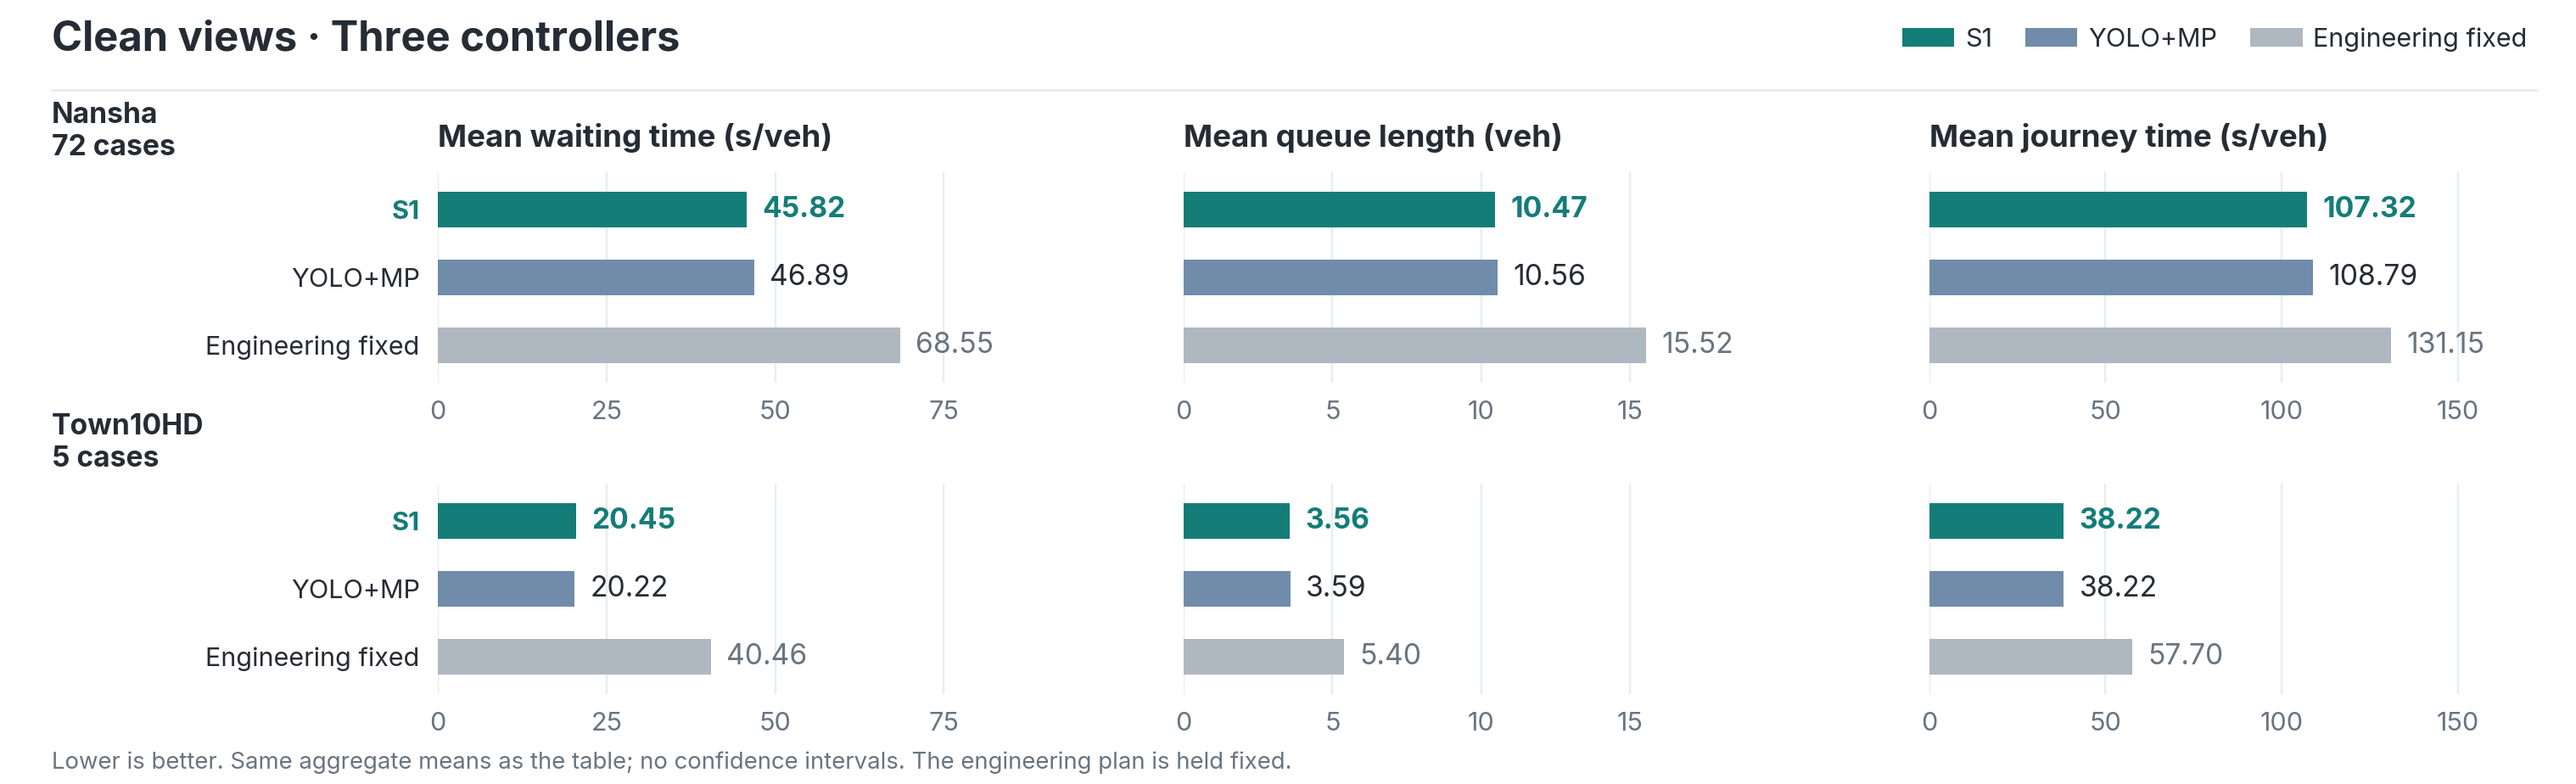
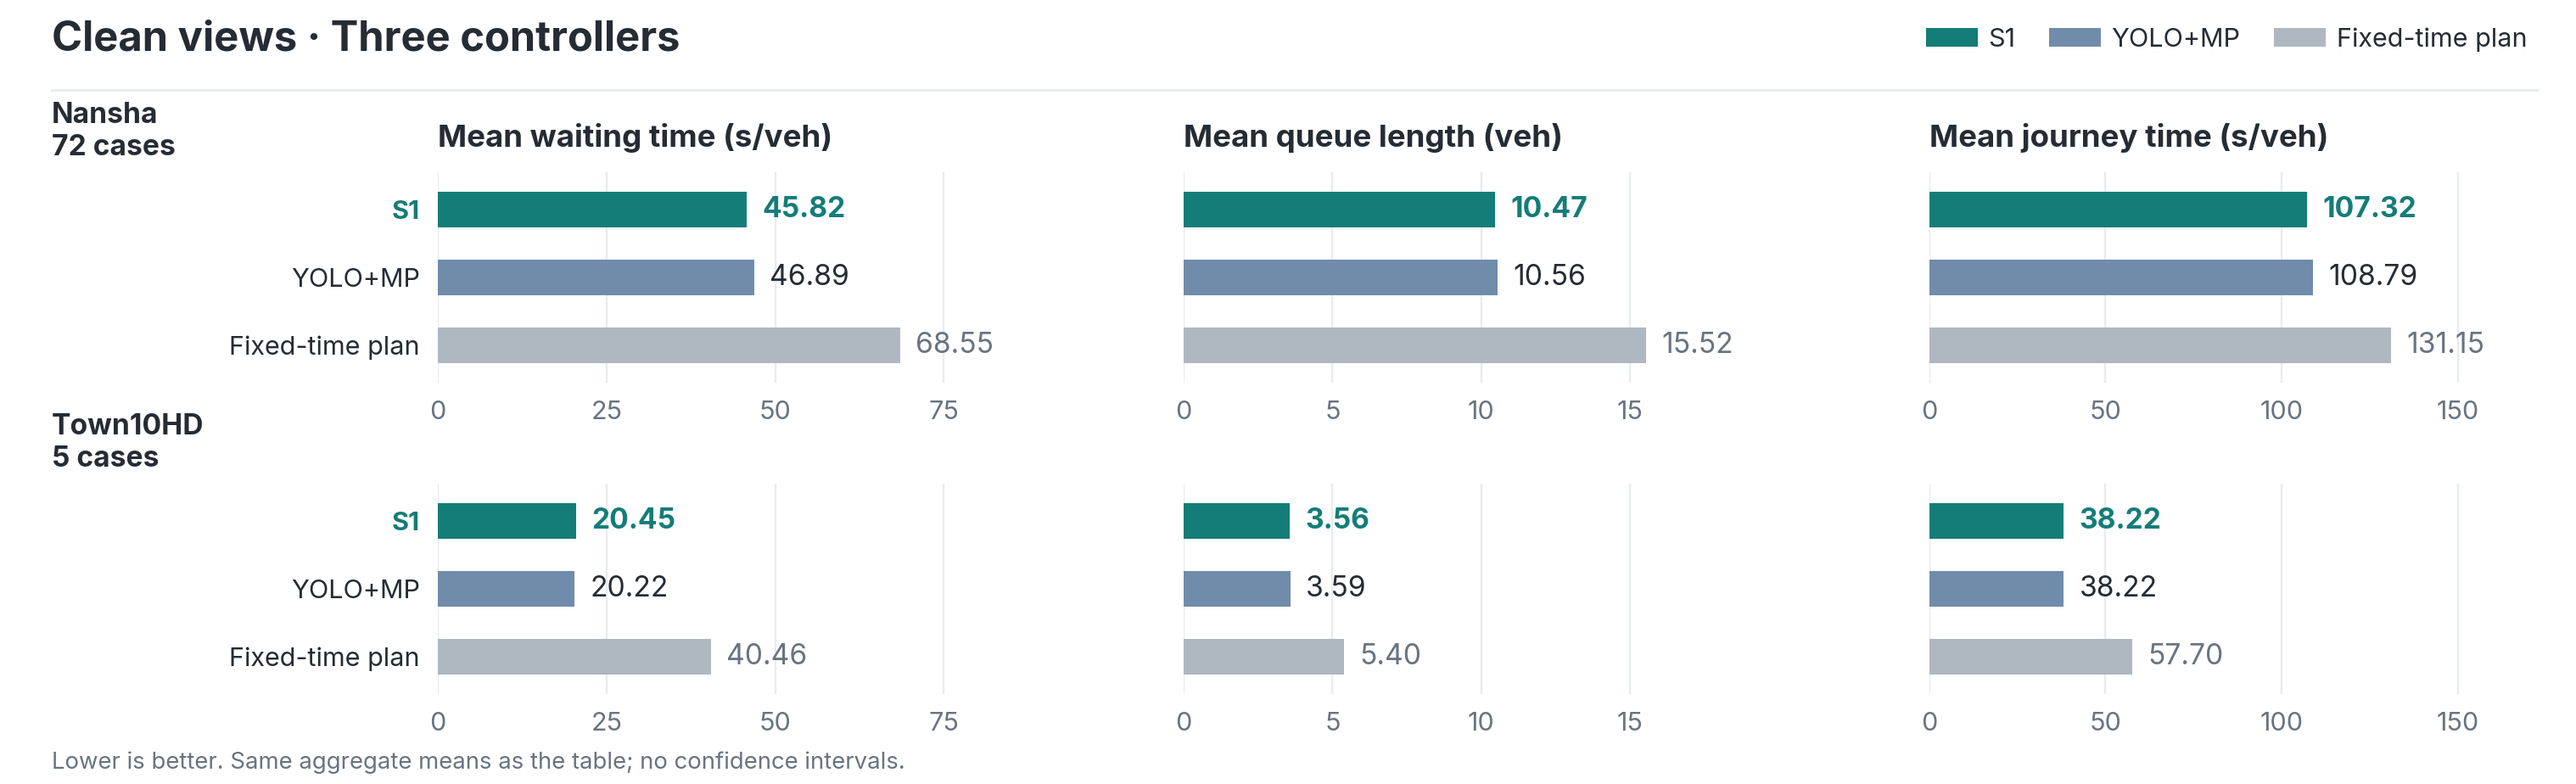
Use fixed-time plan labels in homepage figures

diff --git a/scripts/plot_homepage_results.py b/scripts/plot_homepage_results.py
@@ -100,7 +100,7 @@ def legend(fig: plt.Figure, language: str, clean: bool) -> None:
     ]
     if clean:
         handles = [Patch(facecolor=S1, label="S1"), Patch(facecolor=MP, label="YOLO+MP"),
-                   Patch(facecolor=FIXED, label="冻结工程固定配时" if language == "zh" else "Engineering fixed")]
+                   Patch(facecolor=FIXED, label="固定配时方案" if language == "zh" else "Fixed-time plan")]
     fig.legend(handles=handles, loc="upper right", bbox_to_anchor=(0.99, 0.995),
                ncol=len(handles), frameon=False, handletextpad=0.4, columnspacing=1.3,
                fontsize=10)
@@ -114,7 +114,7 @@ def plot_clean(rows: dict, language: str) -> plt.Figure:
     heading(fig, "正常视觉 · 三种控制方法" if chinese else "Clean views · Three controllers")
     legend(fig, language, clean=True)
     controllers = ("s1", "mp", "fixed")
-    labels = ["S1", "YOLO+MP", "冻结工程固定配时" if chinese else "Engineering fixed"]
+    labels = ["S1", "YOLO+MP", "固定配时方案" if chinese else "Fixed-time plan"]
     for col, (metric, english, mandarin, unit, zh_unit) in enumerate(METRICS):
         limit = max(rows[(scene, "clean", c)][metric]
                     for scene in ("nansha", "town") for c in controllers) * 1.26
@@ -142,8 +142,8 @@ def plot_clean(rows: dict, language: str) -> plt.Figure:
                 ax.set_title(f"{mandarin if chinese else english} ({zh_unit if chinese else unit})",
                              loc="left", pad=10, fontsize=12, weight="bold")
             decorate_axis(ax)
-    fig.text(0.02, 0.02, "三项指标均越低越好；数值与上表一致，无置信区间；固定方案保持冻结。" if chinese
-             else "Lower is better. Same aggregate means as the table; no confidence intervals. The engineering plan is held fixed.",
+    fig.text(0.02, 0.02, "三项指标均越低越好；数值与上表一致，无置信区间。" if chinese
+             else "Lower is better. Same aggregate means as the table; no confidence intervals.",
              fontsize=9, color=MUTED)
     return fig
 

diff --git a/tests/test_homepage_plots.py b/tests/test_homepage_plots.py
@@ -40,6 +40,9 @@ def test_clean_bars_show_actual_means_on_shared_zero_based_axes(language):
     values = rows()
     fig = PLOTS.plot_clean(values, language)
     try:
+        label = "固定配时方案" if language == "zh" else "Fixed-time plan"
+        assert [text.get_text() for text in fig.legends[0].get_texts()] == ["S1", "YOLO+MP", label]
+        assert [text.get_text() for text in fig.axes[0].get_yticklabels()] == ["S1", "YOLO+MP", label]
         for index, ax in enumerate(fig.axes):
             scene = ("nansha", "town")[index // 3]
             metric = PLOTS.METRICS[index % 3][0]
